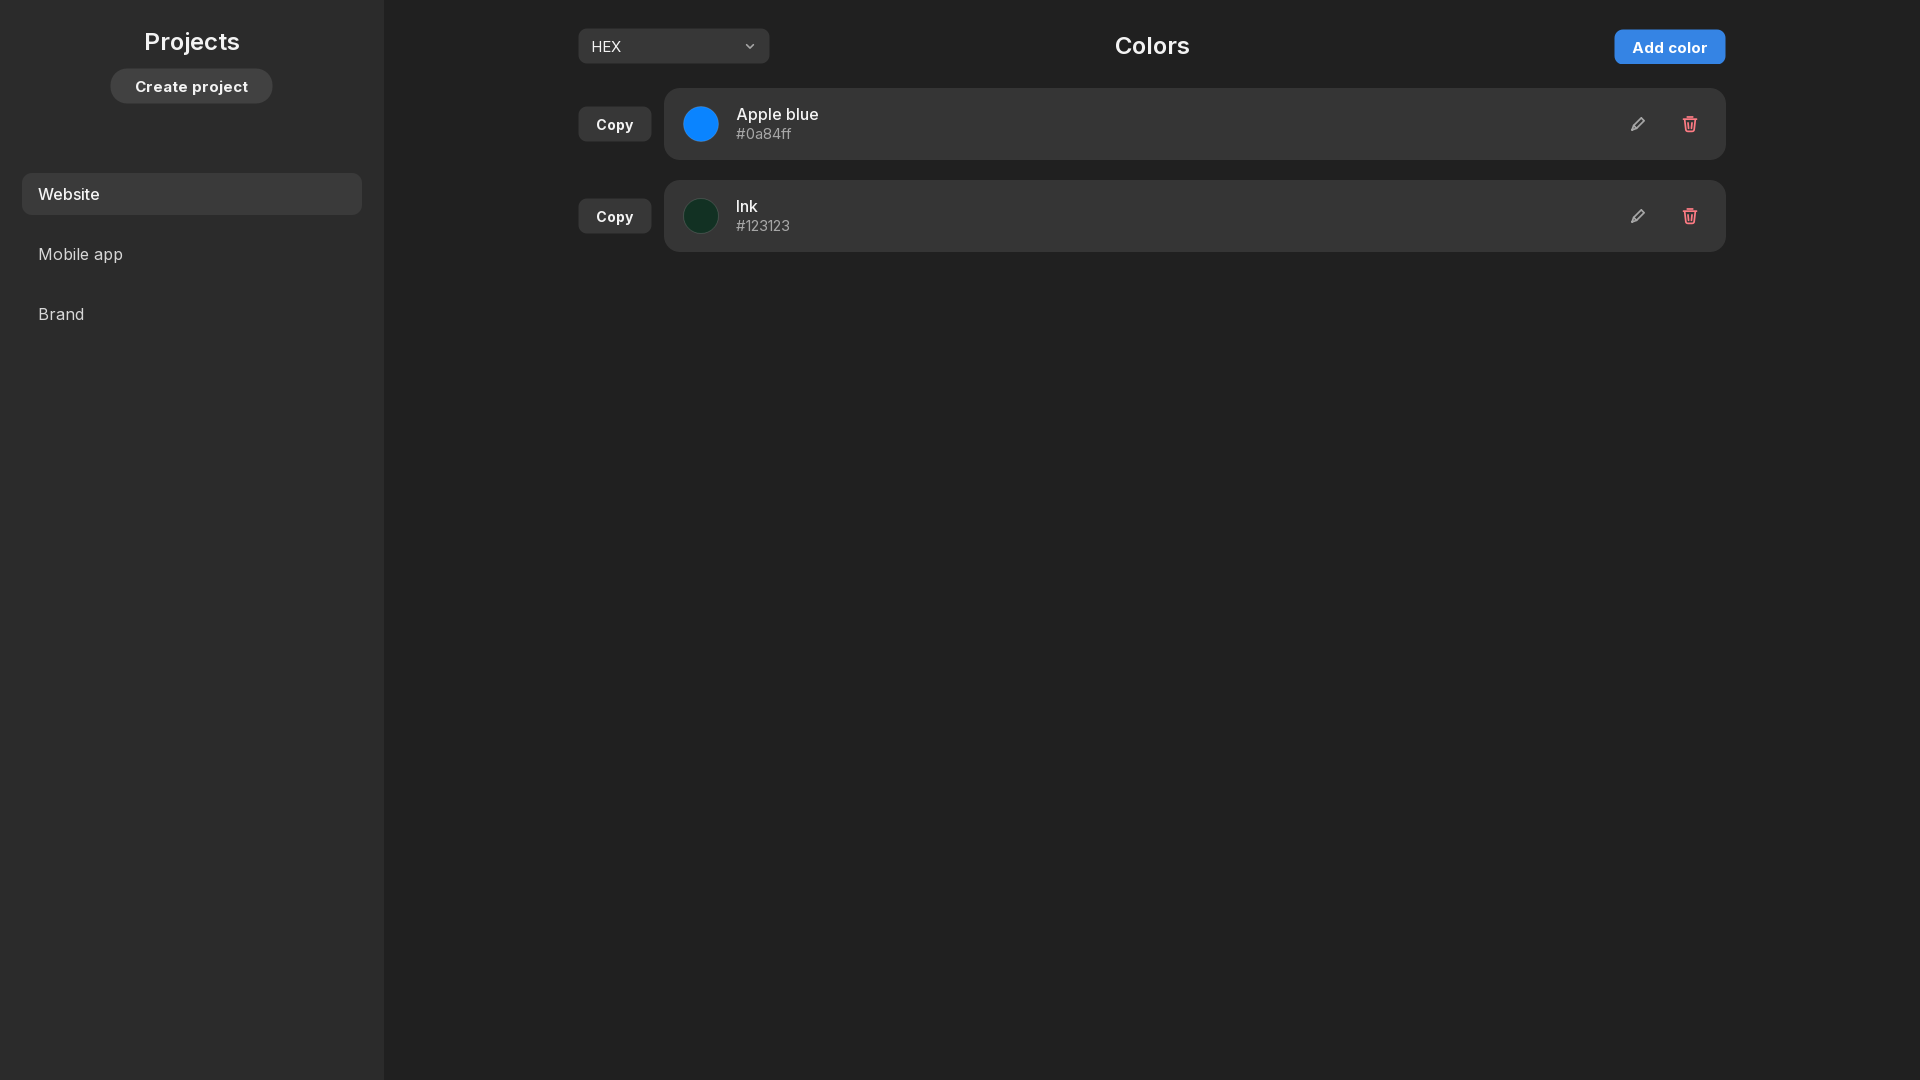
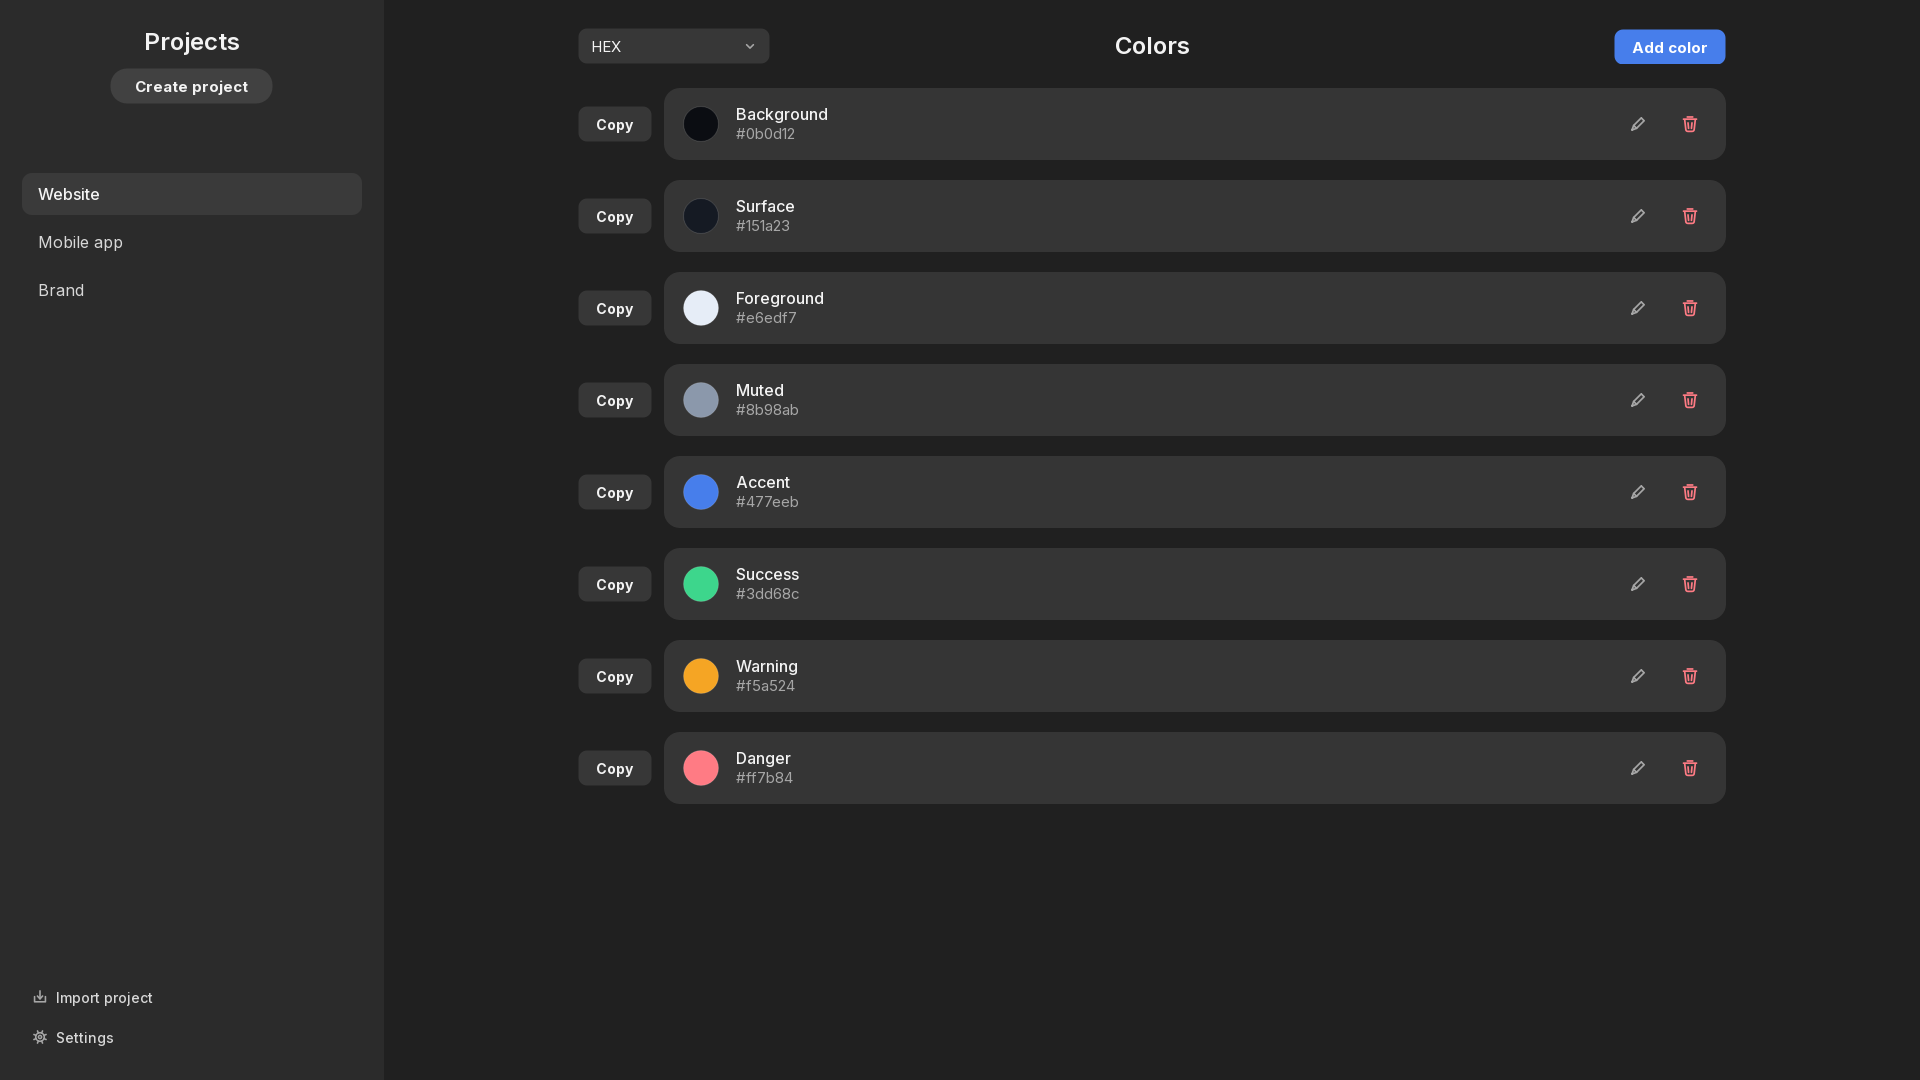
docs: refresh README screenshot and add generator
Regenerate docs/screenshot.png from the current UI and document the workflow so future interface changes keep the README screenshot in sync.

diff --git a/scripts/screenshot.py b/scripts/screenshot.py
@@ -1,0 +1,104 @@
+"""Render the README screenshot from the current UI.
+
+Run from the repository root:
+
+    uv run python scripts/screenshot.py
+
+The script uses Qt's offscreen platform, so it works without opening a window.
+Regenerate ``docs/screenshot.png`` whenever the interface changes.
+"""
+
+from __future__ import annotations
+
+import os
+from pathlib import Path
+
+os.environ.setdefault("QT_QPA_PLATFORM", "offscreen")
+
+from PySide6.QtGui import QFont, QFontDatabase  # noqa: E402
+from PySide6.QtWidgets import QApplication  # noqa: E402
+
+from vcolor import theme  # noqa: E402
+from vcolor.color_utils import DEFAULT_ACCENT  # noqa: E402
+from vcolor.main_window import MainWindow  # noqa: E402
+from vcolor.models import AppData, ColorEntry, PaletteStore, Project  # noqa: E402
+
+ROOT = Path(__file__).resolve().parents[1]
+OUTPUT = ROOT / "docs" / "screenshot.png"
+WIDTH = 1920
+HEIGHT = 1080
+
+COLORS = [
+    ("Background", "#0b0d12"),
+    ("Surface", "#151a23"),
+    ("Foreground", "#e6edf7"),
+    ("Muted", "#8b98ab"),
+    ("Accent", DEFAULT_ACCENT),
+    ("Success", "#3dd68c"),
+    ("Warning", "#f5a524"),
+    ("Danger", "#ff7b84"),
+]
+
+
+def build_data() -> AppData:
+    website = Project(
+        name="Website",
+        colors=[ColorEntry(name=name, hex=hex_value) for name, hex_value in COLORS],
+    )
+    mobile = Project(
+        name="Mobile app",
+        colors=[ColorEntry(name=name, hex=hex_value) for name, hex_value in COLORS[:4]],
+    )
+    brand = Project(
+        name="Brand",
+        colors=[ColorEntry(name="Accent", hex=DEFAULT_ACCENT)],
+    )
+    return AppData(
+        projects=[website, mobile, brand],
+        active_project_id=website.id,
+        use_system_accent=False,
+        accent_color=DEFAULT_ACCENT,
+    )
+
+
+def load_font(app: QApplication) -> str:
+    path = ROOT / "vcolor" / "resources" / "fonts" / "InterVariable.ttf"
+    family = "Inter Variable"
+    if path.exists():
+        font_id = QFontDatabase.addApplicationFont(str(path))
+        if font_id >= 0:
+            families = QFontDatabase.applicationFontFamilies(font_id)
+            if families:
+                family = families[0]
+    font = QFont(family)
+    font.setPixelSize(14)
+    app.setFont(font)
+    return family
+
+
+def main() -> int:
+    import tempfile
+
+    app = QApplication([])
+    app.setStyle("Fusion")
+    family = load_font(app)
+    app.setStyleSheet(theme.build_stylesheet(family))
+
+    with tempfile.TemporaryDirectory() as directory:
+        store = PaletteStore(Path(directory) / "palettes.json")
+        window = MainWindow(store)
+        window._loaded = True
+        window.set_data(build_data())
+        window.resize(WIDTH, HEIGHT)
+        window.show()
+        app.processEvents()
+
+    if not window.grab().save(str(OUTPUT)):
+        raise SystemExit(f"Could not write {OUTPUT}")
+    window.close()
+    print(f"Wrote {OUTPUT.relative_to(ROOT)}")
+    return 0
+
+
+if __name__ == "__main__":
+    raise SystemExit(main())

diff --git a/docs/DEVELOPMENT.md b/docs/DEVELOPMENT.md
@@ -78,6 +78,17 @@ The suite covers color conversion, contrast, persistence, corrupt-file recovery,
 project file import/export, system accent detection, update version comparison,
 and a headless UI smoke test.
 
+## README screenshot
+
+`docs/screenshot.png` is embedded in `README.md`. Regenerate it after any UI
+change so the README stays in sync:
+
+```bash
+uv run python scripts/screenshot.py
+```
+
+The script renders the current interface with Qt's offscreen platform.
+
 ## Build a desktop bundle
 
 ```bash
@@ -230,6 +241,6 @@ vcolor/
   updater.py        GitHub release lookup and version comparison
   resources/        Inter font and app icons
 packaging/          PyInstaller spec, Inno Setup script, Linux desktop entry
-scripts/            icon generation and build helper
+scripts/            icon generation, screenshot, and build helpers
 tests/              unit and headless UI tests
 ```

diff --git a/AGENTS.md b/AGENTS.md
@@ -111,6 +111,9 @@ Theme notes:
   tell the user which values are missing.
 - Keep `source` and `license` metadata accurate when converting someone else's
   theme.
+- Regenerate `docs/screenshot.png` whenever the interface changes. The README
+  embeds this file, so a UI change is not complete until the screenshot is
+  updated with `uv run python scripts/screenshot.py`.
 
 ## Repository map
 
